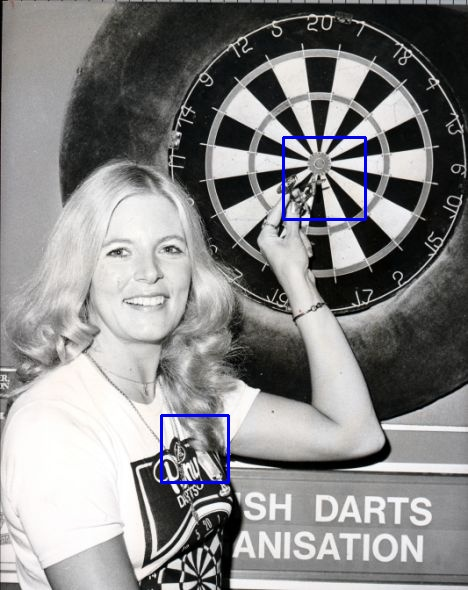
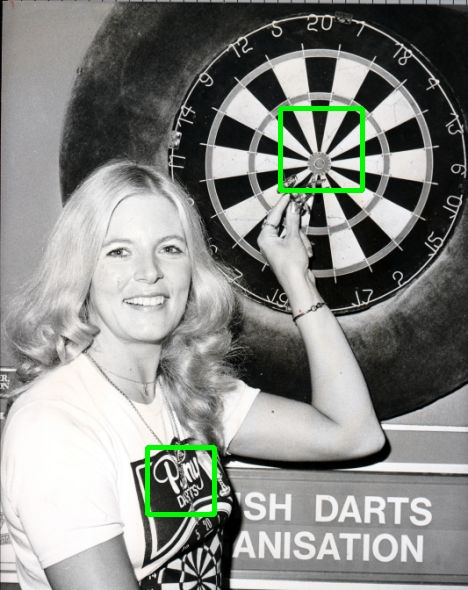
Fixed hough line

Changed region(s): [[0.5684, 0.1525, 0.8077, 0.3966], [0.2991, 0.7017, 0.5085, 0.8847]]

diff --git a/Assignment/task3/task.cpp b/Assignment/task3/task.cpp
@@ -205,7 +205,7 @@ void Detector::houghTransformLine() {
     //theta: The resolution of the parameter \theta in radians. We use 1 degree (CV_PI/180)
     //threshold: The minimum number of intersections to “detect” a line
     //srn and stn: Default parameters to zero. Check OpenCV reference for more info.
-    HoughLines(workImage, lines, 1, CV_PI/180, 80, 0, 0 );
+    HoughLines(workImage, lines, 1, CV_PI/180, 100, 0, 0 );
 
     const int x = mag.rows;
     const int y = mag.cols;
@@ -221,46 +221,48 @@ void Detector::houghTransformLine() {
 
     for( size_t i = 0; i < lines.size(); i++ ) {
         for( size_t j = i+1; j < lines.size(); j++ ) {
-            float rho = lines[i][0], theta = lines[i][1];
-            Point2f o1, p1;
-            double a = cos(theta), b = sin(theta);
-            double x0 = a*rho, y0 = b*rho;
+            float rho1 = lines[i][0], theta1 = lines[i][1];
+            Point pt11, pt12;
+            double a1 = cos(theta1), b1 = sin(theta1);
+            double x10 = a1*rho1, y10 = b1*rho1;
 
-            o1.x = cvRound(x0 + 1000*(-b));
-            o1.y = cvRound(y0 + 1000*(a));
-            p1.x = cvRound(x0 - 1000*(-b));
-            p1.y = cvRound(y0 - 1000*(a));
+            float rho2 = lines[j][0], theta2 = lines[j][1];
+            Point pt21, pt22;
+            double a2 = cos(theta2), b2 = sin(theta2);
+            double x20 = a2*rho2, y20 = b2*rho2;
 
-            rho = lines[j][0];
-            theta = lines[j][1];
-            Point2f o2, p2;
-            a = cos(theta), b = sin(theta);
-            x0 = a*rho, y0 = b*rho;
-            o2.x = cvRound(x0 + 1000*(-b));
-            o2.y = cvRound(y0 + 1000*(a));
-            p2.x = cvRound(x0 - 1000*(-b));
-            p2.y = cvRound(y0 - 1000*(a));
+            pt11.x = cvRound(x10 + 1000*(-b1));
+            pt11.y = cvRound(y10 + 1000*(a1));
+            pt12.x = cvRound(x10 - 1000*(-b1));
+            pt12.y = cvRound(y10 - 1000*(a1));
+
+            pt21.x = cvRound(x20 + 1000*(-b2));
+            pt21.y = cvRound(y20 + 1000*(a2));
+            pt22.x = cvRound(x20 - 1000*(-b2));
+            pt22.y = cvRound(y20 - 1000*(a2));
 
             Point2f r;
 
-            if (intersection(o1, p1, o2, p2, r)) {
-                if (r.x < mag.rows && r.y < mag.cols && r.x > 0 && r.y > 0) {
-                    int x = r.x;
-                    int y = r.y;
+            if (intersection(pt11, pt12, pt21, pt22, r)) {
+                if (r.x < workImage.cols && r.y < workImage.rows && r.x > 0 && r.y > 0) {
+                    int x = r.y;
+                    int y = r.x;
                     crosses[x][y] += 1;
                     sum ++;
                 }
             }
-        }
-    }
 
-    for ( int i = 0; i < mag.rows; i++ ) {
-        for( int j = 0; j < mag.cols; j++ ) {
+        }
+
+    }
+    for ( int i = 0; i < workImage.rows; i++ ) {
+        for( int j = 0; j < workImage.cols; j++ ) {
             // TODO: maybe change this to == 8 or some other
-            if (crosses[i][j] > (sum / (5 * lines.size()))) {
+            if (crosses[i][j] > (sum / (4 * lines.size()))) {
+            //if (crosses[i][j] > 0) {
                 Point2f center;
-                center.x = i;
-                center.y = j;
+                center.x = j;
+                center.y = i;
                 circle( overlay_image, center, 7, Scalar(30,255,30), -1, 8, 0 );
                 line_hits.push_back(center);
             }
@@ -486,7 +488,7 @@ void Detector::write_overlay_image(String path) {
 void Detector::write_detections_image(String path) {
     vector<DartBoard>::iterator dartboard;
     for (dartboard = dartboards.begin(); dartboard != dartboards.end(); ++dartboard) {
-	    rectangle(detections_image, Point(dartboard->bounding_box.x, dartboard->bounding_box.y), Point(dartboard->bounding_box.x + dartboard->bounding_box.width, dartboard->bounding_box.y + dartboard->bounding_box.height), Scalar( 255, 0, 0 ), 2);
+	    rectangle(detections_image, Point(dartboard->bounding_box.x, dartboard->bounding_box.y), Point(dartboard->bounding_box.x + dartboard->bounding_box.width, dartboard->bounding_box.y + dartboard->bounding_box.height), Scalar( 0, 250, 0 ), 4);
     }
 
     imwrite(path, detections_image);
